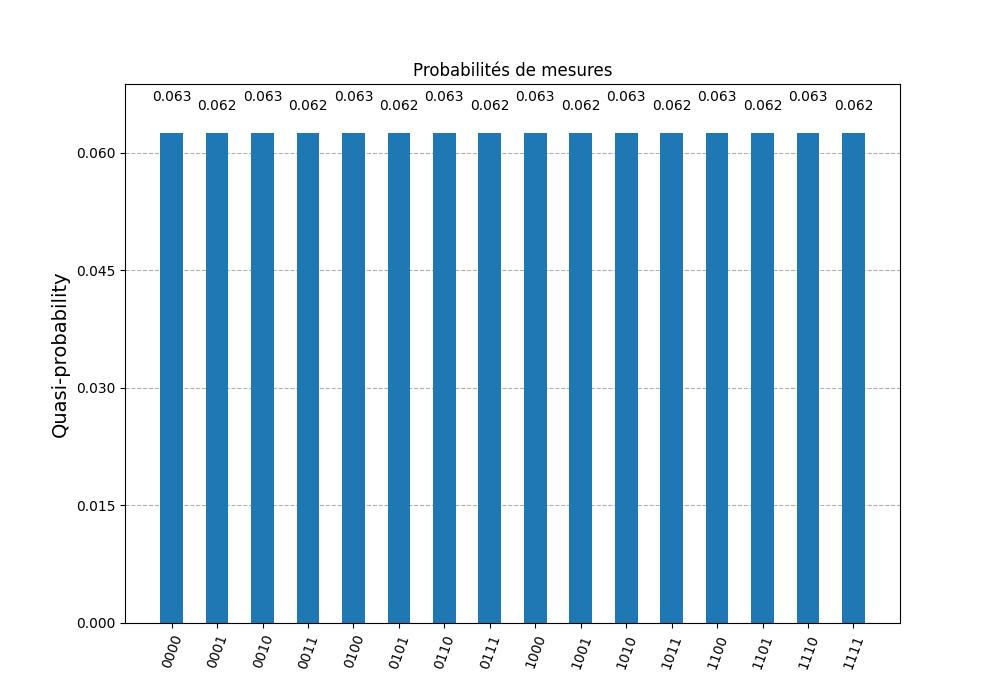
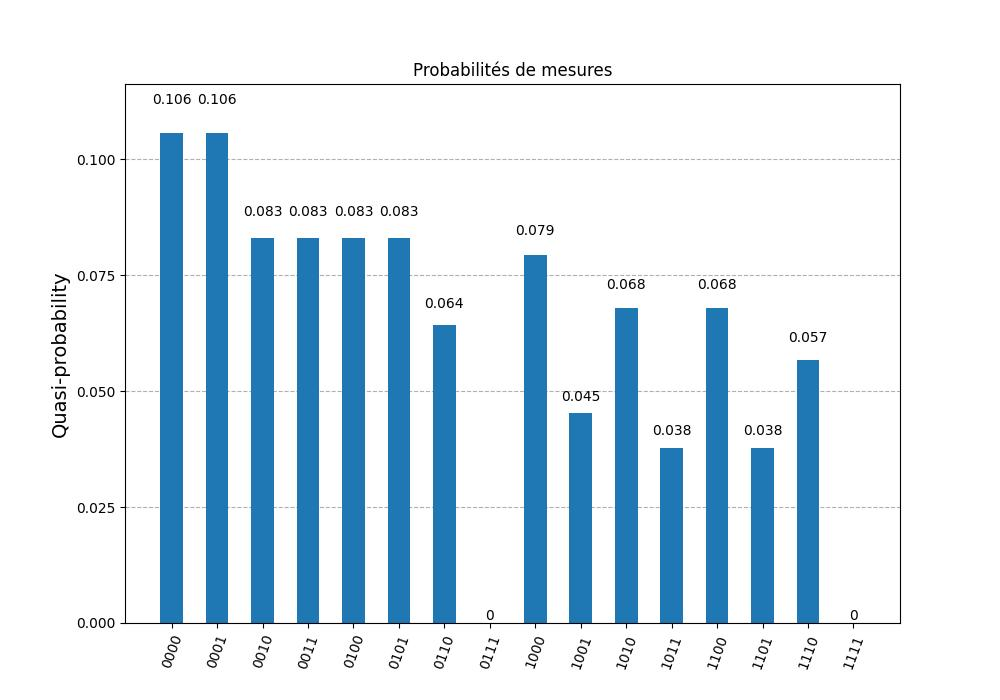
fait oracle de fonction pour 3x3

diff --git a/sudoku_3x3.py b/sudoku_3x3.py
@@ -1,16 +1,51 @@
+from pathlib import Path
 import numpy as np
 from qiskit import QuantumRegister, ClassicalRegister, QuantumCircuit
+from qiskit.visualization import plot_histogram
+from qiskit.quantum_info import Statevector, partial_trace
 
-from sudoku_nxn import calculer_prob_succes, find_optimal_n_iterations, draw_circuit, draw_histogram, compter_cnot
+from sudoku_nxn import calculer_prob_succes, find_optimal_n_iterations, draw_circuit, IMAGES_FOLDER, compter_cnot
+
+def draw_histogram(qc: QuantumCircuit, file_name):
+    output_path = Path(IMAGES_FOLDER, file_name)
+    # on doit retirer les mesures pour éviter une erreur 'Cannot apply instruction with classical bits: measure'
+    qc_sans_mesures = qc.remove_final_measurements(inplace=False)
+    matrice_densite = Statevector.from_instruction(qc_sans_mesures)
+
+    reduced = partial_trace(matrice_densite, [4, 5, 6, 7, 8])
+    probabilites = np.real(np.diag(reduced.data))
+
+    # On formate attribues les probabilités à leurs vecteur d'états associé (ex: 7 = 0111)
+    probabilites = {format(i, "04b"): probabilites[i] for i in range(16)}
+
+    plot_histogram(probabilites, figsize=(10,7), title="Probabilités de mesures", filename=output_path)
+    print("Un histogramme illustrant les probabilités de résultat à été généré à ", output_path)
 
 def oracle_sudoku(qc: QuantumCircuit) -> QuantumCircuit:
-    c_nots = [[0,9]]
-    # On ajoute les c_nots
+    c_nots = []
+    mc_nots = []
+    # Contraintes sur les lignes
+    c_nots.extend([[0,9], [1,9], [2,9]])    # ligne#1 ne doit pas avoir tout des 0 et ne doit pas avoir deux 1
+    qc.mcx([0,1,2], 9)                      # ligne#1 ne doit pas contenir trois 1
+    c_nots.extend([[3,10], [4,10], [5,10]]) # ligne#2 ne doit pas avoir tout des 0 et ne doit pas avoir deux 1
+    qc.mcx([3,4,5], 10)                     # ligne#2 ne doit pas contenir trois 1
+    c_nots.extend([[6,11], [7,11], [8,11]]) # ligne#3 ne doit pas avoir tout des 0 et ne doit pas avoir deux 1
+    qc.mcx([6,7,8], 11)                     # ligne#3 ne doit pas contenir trois 1
+
+    # Contraintes sur les colonnes
+    c_nots.extend([[0,12], [3,12], [6,12]]) # colonne#1 ne doit pas avoir tout des 0 et ne doit pas avoir deux 1
+    qc.mcx([0,3,6], 12)                     # colonne#1 ne doit pas contenir trois 1
+    c_nots.extend([[1,13], [4,13], [7,13]]) # colonne#2 ne doit pas avoir tout des 0 et ne doit pas avoir deux 1
+    qc.mcx([1,4,7], 13)                     # colonne#2 ne doit pas contenir trois 1
+    c_nots.extend([[2,14], [5,14], [8,14]]) # colonne#3 ne doit pas avoir tout des 0 et ne doit pas avoir deux 1
+    qc.mcx([2,5,8], 14)                     # colonne#3 ne doit pas contenir trois 1
+    
+    # On ajoute les c_nots au circuit
     for c_not in c_nots:
         qc.cx(c_not[0], c_not[1])
 
     # On ajoute le CCCCNOT qui vérifie toutes les conditions
-    qc.mcx([9,10,11,12,13], 14)
+    qc.mcx([9,10,11,12,13, 14], 15)
 
     # On ajoute les c_nots
     for c_not in c_nots:
@@ -52,8 +87,7 @@ def grover(num_iterations) -> QuantumCircuit:
     qc.barrier()
 
     # On applique l'oracle n fois
-    # On applique l'oracle 1 fois pour tester
-    for iteration in range(1):
+    for iteration in range(num_iterations):
         qc = oracle_sudoku(qc)
         qc.barrier()
         qc = inversion_moyenne(qc)

diff --git a/sudoku_2x2.py b/sudoku_2x2.py
@@ -1,8 +1,25 @@
+from pathlib import Path
 import numpy as np
 from qiskit import QuantumRegister, ClassicalRegister, QuantumCircuit
+from qiskit.visualization import plot_histogram
+from qiskit.quantum_info import Statevector, partial_trace
 
-from sudoku_nxn import calculer_prob_succes, find_optimal_n_iterations, draw_circuit, draw_histogram, compter_cnot
+from sudoku_nxn import calculer_prob_succes, find_optimal_n_iterations, draw_circuit, IMAGES_FOLDER, compter_cnot
 
+def draw_histogram(qc: QuantumCircuit, file_name):
+    output_path = Path(IMAGES_FOLDER, file_name)
+    # on doit retirer les mesures pour éviter une erreur 'Cannot apply instruction with classical bits: measure'
+    qc_sans_mesures = qc.remove_final_measurements(inplace=False)
+    matrice_densite = Statevector.from_instruction(qc_sans_mesures)
+
+    reduced = partial_trace(matrice_densite, [4, 5, 6, 7, 8])
+    probabilites = np.real(np.diag(reduced.data))
+
+    # On formate attribues les probabilités à leurs vecteur d'états associé (ex: 7 = 0111)
+    probabilites = {format(i, "04b"): probabilites[i] for i in range(16)}
+
+    plot_histogram(probabilites, figsize=(10,7), title="Probabilités de mesures", filename=output_path)
+    print("Un histogramme illustrant les probabilités de résultat à été généré à ", output_path)
 
 def oracle_sudoku(qc: QuantumCircuit) -> QuantumCircuit:
     c_nots = [[0,4], [1,4], [0,5], [2,5], [1,6], [3,6], [2,7], [3,7]]

diff --git a/sudoku_nxn.py b/sudoku_nxn.py
@@ -15,20 +15,6 @@ def draw_circuit(qc: QuantumCircuit, file_name) -> None:
     qc.draw(output="mpl", filename=output_path)
     print("Une image du circuit à été généré à ", output_path)
 
-def draw_histogram(qc: QuantumCircuit, file_name):
-    output_path = Path(IMAGES_FOLDER, file_name)
-    # on doit retirer les mesures pour éviter une erreur 'Cannot apply instruction with classical bits: measure'
-    qc_sans_mesures = qc.remove_final_measurements(inplace=False)
-    matrice_densite = Statevector.from_instruction(qc_sans_mesures)
-
-    reduced = partial_trace(matrice_densite, [4, 5, 6, 7, 8])
-    probabilites = np.real(np.diag(reduced.data))
-
-    # On formate attribues les probabilités à leurs vecteur d'états associé (ex: 7 = 0111)
-    probabilites = {format(i, "04b"): probabilites[i] for i in range(16)}
-
-    plot_histogram(probabilites, figsize=(10,7), title="Probabilités de mesures", filename=output_path)
-    print("Un histogramme illustrant les probabilités de résultat à été généré à ", output_path)
 
 def calculer_prob_succes(m, theta):
     prob_succes = np.abs(np.sin((2*m+1)*theta))**2
